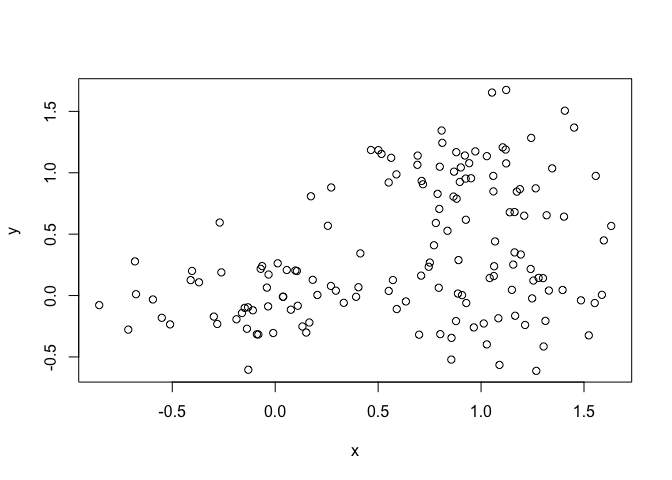
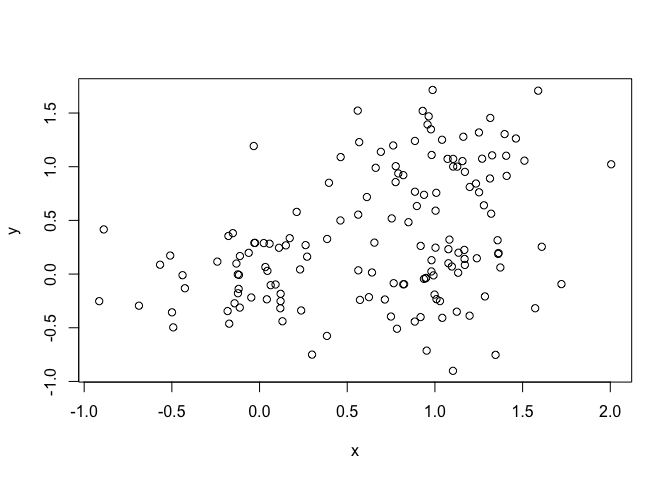
updated class 8

diff --git a/class08/class08.md b/class08/class08.md
@@ -3,7 +3,7 @@ Class 8: Machine Learning
 Brie Diaz
 4/26/2019
 
-Let's try ot the **kmens()** fnction in R with some made up data
+Let's try ot the **kmeans()** fnction in R with some made up data
 
 ``` r
 tmp <- c(rnorm(30,-3), rnorm(30,3))
@@ -53,8 +53,8 @@ km$centers
 ```
 
     ##           x         y
-    ## 1 -2.936373  2.777527
-    ## 2  2.777527 -2.936373
+    ## 1 -3.096402  2.973907
+    ## 2  2.973907 -3.096402
 
 Plot x colored by the kmeans cluster assignment and add cluster centers as blue points
 
@@ -113,8 +113,8 @@ gp3 <- cutree(hc, k=3)
 gp3
 ```
 
-    ##  [1] 1 1 1 1 1 1 1 1 1 1 1 1 1 1 1 1 1 1 1 1 1 1 1 1 1 1 1 1 1 1 2 3 2 2 3
-    ## [36] 3 2 3 2 2 2 3 2 2 2 2 3 2 2 3 2 2 2 2 3 2 2 2 2 2
+    ##  [1] 1 1 1 1 1 1 1 1 1 1 1 1 1 1 1 1 1 1 1 1 1 1 1 1 1 1 1 1 1 1 2 2 2 3 3
+    ## [36] 2 2 2 2 2 2 3 2 2 2 2 2 2 2 2 3 2 2 2 2 3 2 3 2 2
 
 ``` r
 table(gp2)
@@ -130,7 +130,7 @@ table(gp3)
 
     ## gp3
     ##  1  2  3 
-    ## 30 22  8
+    ## 30 24  6
 
 ``` r
 table(gp2, gp3)
@@ -139,7 +139,7 @@ table(gp2, gp3)
     ##    gp3
     ## gp2  1  2  3
     ##   1 30  0  0
-    ##   2  0 22  8
+    ##   2  0 24  6
 
 Step 1. Generate some example data for clustering
 =================================================
@@ -200,7 +200,7 @@ table(gp2)
 
     ## gp2
     ##   1   2 
-    ##  49 101
+    ##  46 104
 
 ``` r
 table(gp3)
@@ -208,7 +208,7 @@ table(gp3)
 
     ## gp3
     ##  1  2  3 
-    ## 49 47 54
+    ## 46 57 47
 
 ``` r
 plot(x, col=gp3)
